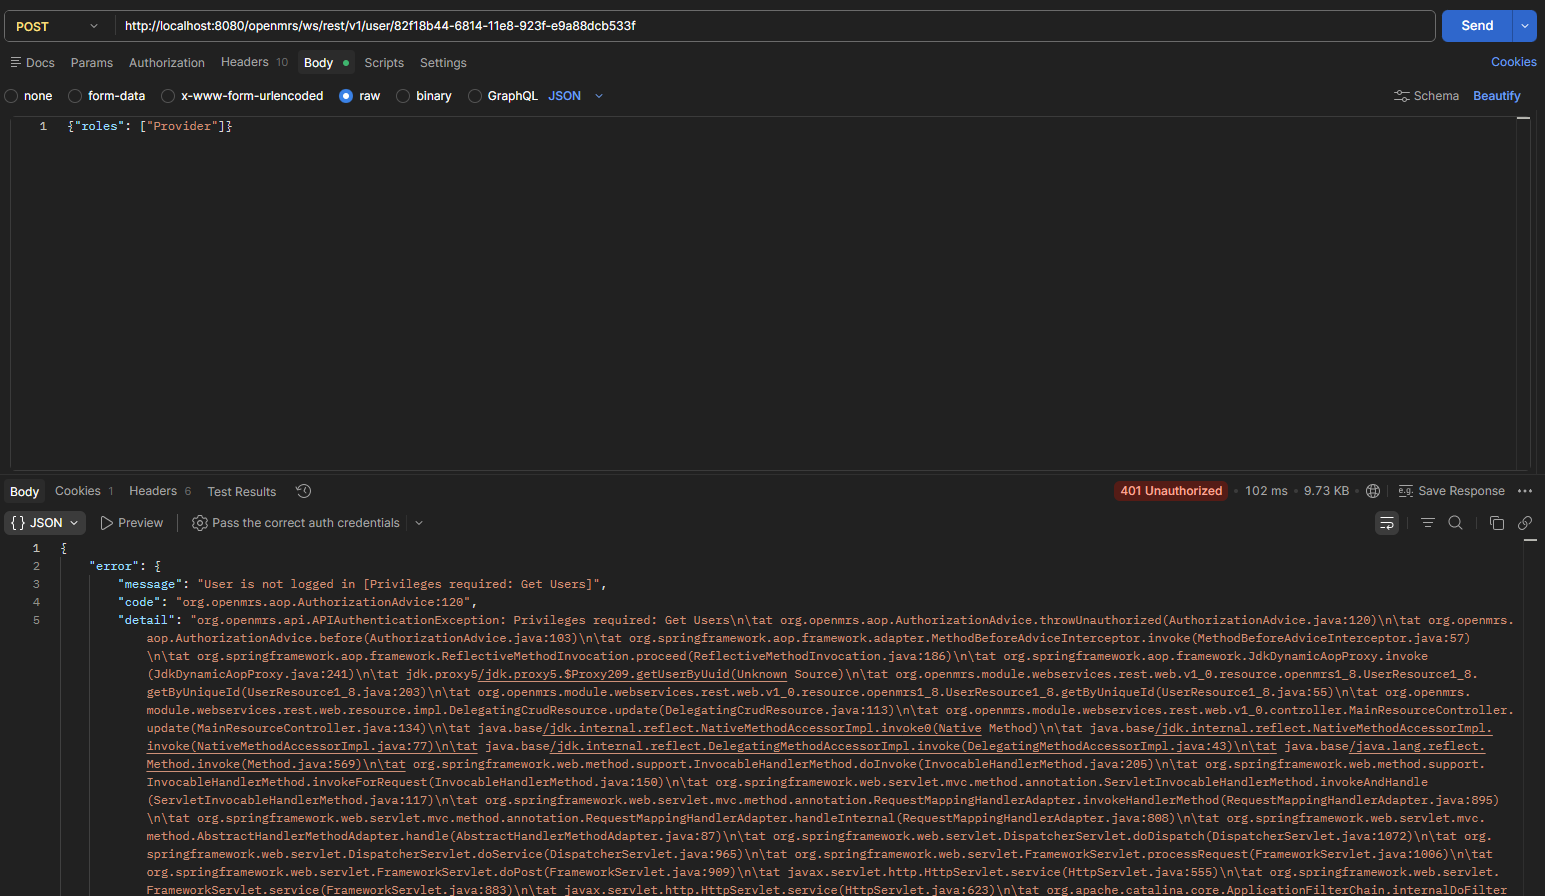
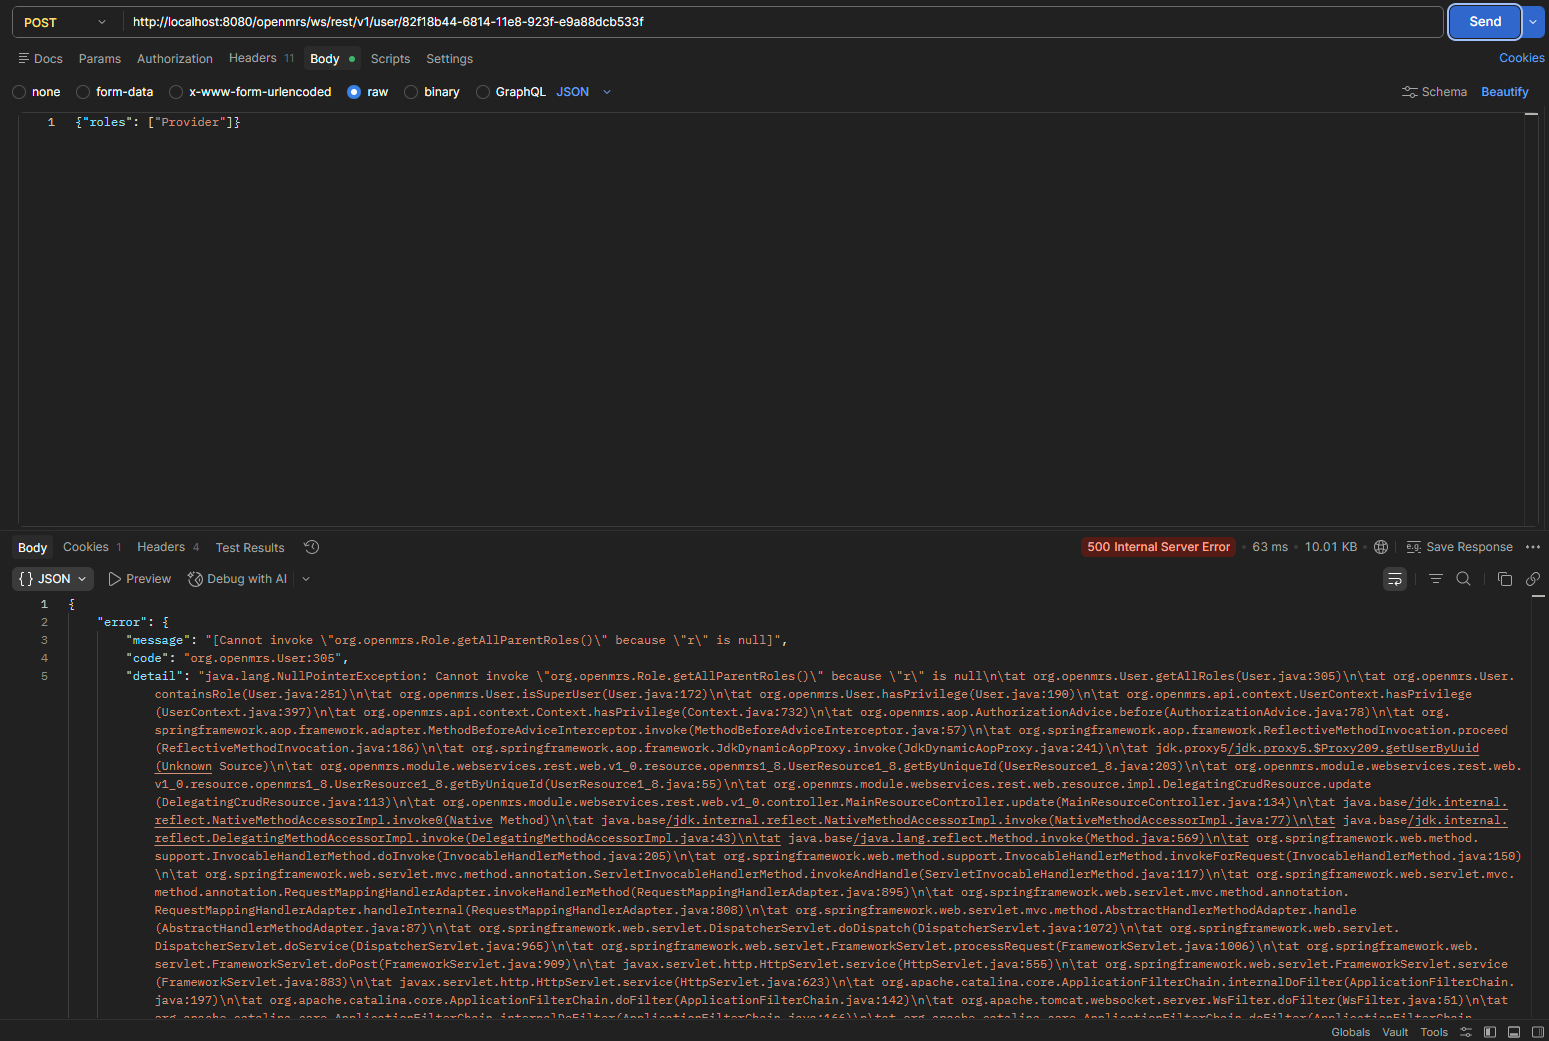
[DOCS] Logging gap analysis
[DOCS] Finished gap analysis for logging comparing the current logging situations with the result and possible gaps.

diff --git a/docs/auditrapport/Gap-analyse-logging.md b/docs/auditrapport/Gap-analyse-logging.md
@@ -1,34 +1,54 @@
 # Gap-analyse-logging — openmrs-module-webservices.rest
 
-Omschrijving
+Deze analyse richt zich op het ontbreken van audit-logging in de REST-API, getoetst aan de NEN-7510 norm (A.8.15).
 
-### Logging Gap Analyse
+## Logging Gap Analyse Overzicht
 
-| Event                | Gelogd? | Gevoelige data | Compliant NEN-7510 |
-| :------------------- | :------ | :------------- | :----------------- |
-| `PATCH /user`        | Nee     | Ja             | Nee                |
-| `POST /user`         | Nee     | Nee            | Nee                |
-| `GET /systemsetting` | Nee     | Nee            | Nee                |
-| `GET /session`       | Nee     | Nee            | Nee                |
+| Event / Actie        | Gelogd | Gevoelige data | Compliant NEN-7510 |
+| :------------------- | :----- | :------------- | :----------------- |
+| `PATCH /user`        | Nee    | Ja             | Nee                |
+| `POST /user`         | Nee    | Nee            | Nee                |
+| `GET /systemsetting` | Nee    | Nee            | Nee                |
+| `GET /session`       | Nee    | Nee            | Nee                |
 
 ---
 
-#### PATCH /user
+### 1. PATCH /user
 
-- **Gelogd:** Nee.
-- **Bevinding:** Bij het sturen van een PATCH request geeft de API een `200 OK` terug, zelfs als de wijziging niet doorgegeven wordt. Geen logs van pogingen tot ongeautoriseerde wijziging van gebruikersdata.
+- **Huidige situatie:** Bij een `PATCH` request wordt een `200 OK` gegeven, ongeacht of de wijziging (bijv. in `roles`) daadwerkelijk wordt doorgevoerd. Er vindt geen logging plaats van deze actie.
+- **Gewenste situatie:** Volgens NEN-7510 A.8.15 moeten alle wijzigingen in gebruikersdata en autorisatierechten op de juiste manier worden gelogd, inclusief het resultaat van de operatie.
+- **Gap:** Het systeem mist een log bij het wijzigingen van data en geeft foute response, waardoor ongeautoriseerde wijzigingspogingen onzichtbaar blijven.
+- **Oplossing:** Implementeer een `AuditInterceptor` die op alle `PATCH` operaties de acties van de user vastlegt.
+- **Source:** !
+  <br />
+  ![Image](images/Gap-analyse-massassignment-unauthorized-results.png "Unauthorized 200OK")
+  ![Image](images/Gap-analyse-massassignment-roles.png "Unauthorized 200OK")
 
-#### POST /user
+### 2. POST /user
 
-- **Gelogd:** Nee.
-- **Bevinding:** Het systeem accepteert verzoeken zonder autorisatiecontrole bij het mee geven van UUID's. Bij gefaalde of succesvolle pogingen wordt er niets geregistreerd.
+- **Huidige situatie:** Het systeem accepteert `POST` verzoeken zonder autorisatiecontrole op UUID van de gebruiker die een verzoek stuurt met een bepaalde rol en geeft vervolgens de verkeerde foutmelding (500 i.p.v. 400). Er is geen log van succesvolle of gefaalde pogingen.
+- **Gewenste situatie:** Elke poging tot rechten wijzigen moet worden gelogd.
+- **Gap:** Geen mogelijkheid voor hackers die proberen onopvallend hun rechten te verhogen met een bepaalde rol zonder de juiste UUID.
+- **Oplossing:** Voeg autorisatiechecks toe op rol wijzigingen en log elke geweigerde of succesvolle wijziging.
+- **Source:**
+  <br />
+  ![Image](images/Gap-analyse-privilege-result.png "Roles changed")
 
-#### GET /systemsetting
+### 3. GET /systemsetting
 
-- **Gelogd:** Nee.
-- **Bevinding:** Ongeautoriseerde toegangspogingen worden correct afgewezen met `401 Unauthorized`, maar deze worden niet gelogd.
+- **Huidige situatie:** Ongeautoriseerde toegangspogingen worden geblokkeerd met `401 Unauthorized`, maar dit wordt niet gelogd.
+- **Gewenste situatie:** Elke toegang op configuratie endpoints zonder geldige autorisatie moet worden vastgelegd in de logs.
+- **Gap:** Het systeem logt geen ongeautoriseerde pogingen.
+- **Oplossing:** Zorg dat elk `401 Unauthorized` en `403 Forbidden` incident gelogd wordt.
+- **Source:** Bekijk logs.
 
-#### GET /session
+### 4. GET /session
 
-- **Gelogd:** Nee
-- **Bevinding:** Het endpoint geeft onnodige informatie over sessiestatus (`authenticated: false`) bij 200 OK, in plaats van een 401.
+- **Huidige situatie:** Het endpoint geeft verkeerde sessie informatie (`authenticated: false`) in een `200 OK` response in plaats van een 401 foutcode. Er is geen logging voor deze endpoint omdat hij altijd 200OK terug geeft.
+- **Gewenste situatie:** Authenticatie endpoints moeten de juiste HTTP-foutcodes (`401`) geven en elke sessie wijziging moet controleerbaar zijn in de logs.
+- **Gap:** Onjuiste informatie over sessie authenticatie door verkeerde status code en gebrek aan logging voor sessies.
+- **Oplossing:** Retourneer `401 Unauthorized` bij ongeauthenticeerde toegang en log elke succesvolle inlogpoging.
+- **Source:**
+  <br />
+  ![Image](images/Gap-analyse-logging-unauthenticated.png "Unauthorized 200OK")
+  ![Image](images/Gap-analyse-logging-authentication-succes.png "Authorization 200OK")